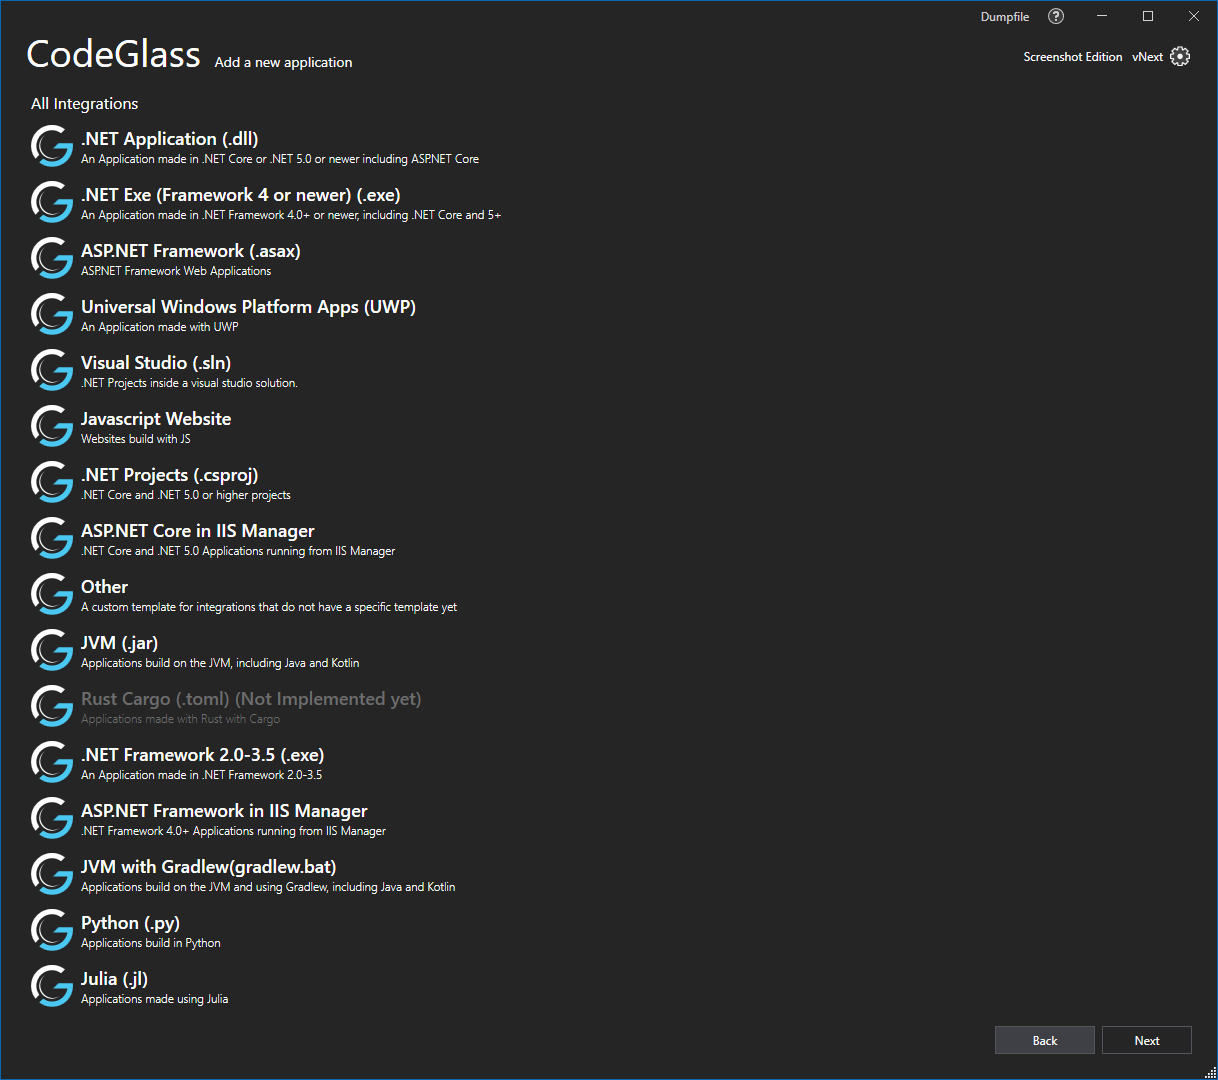
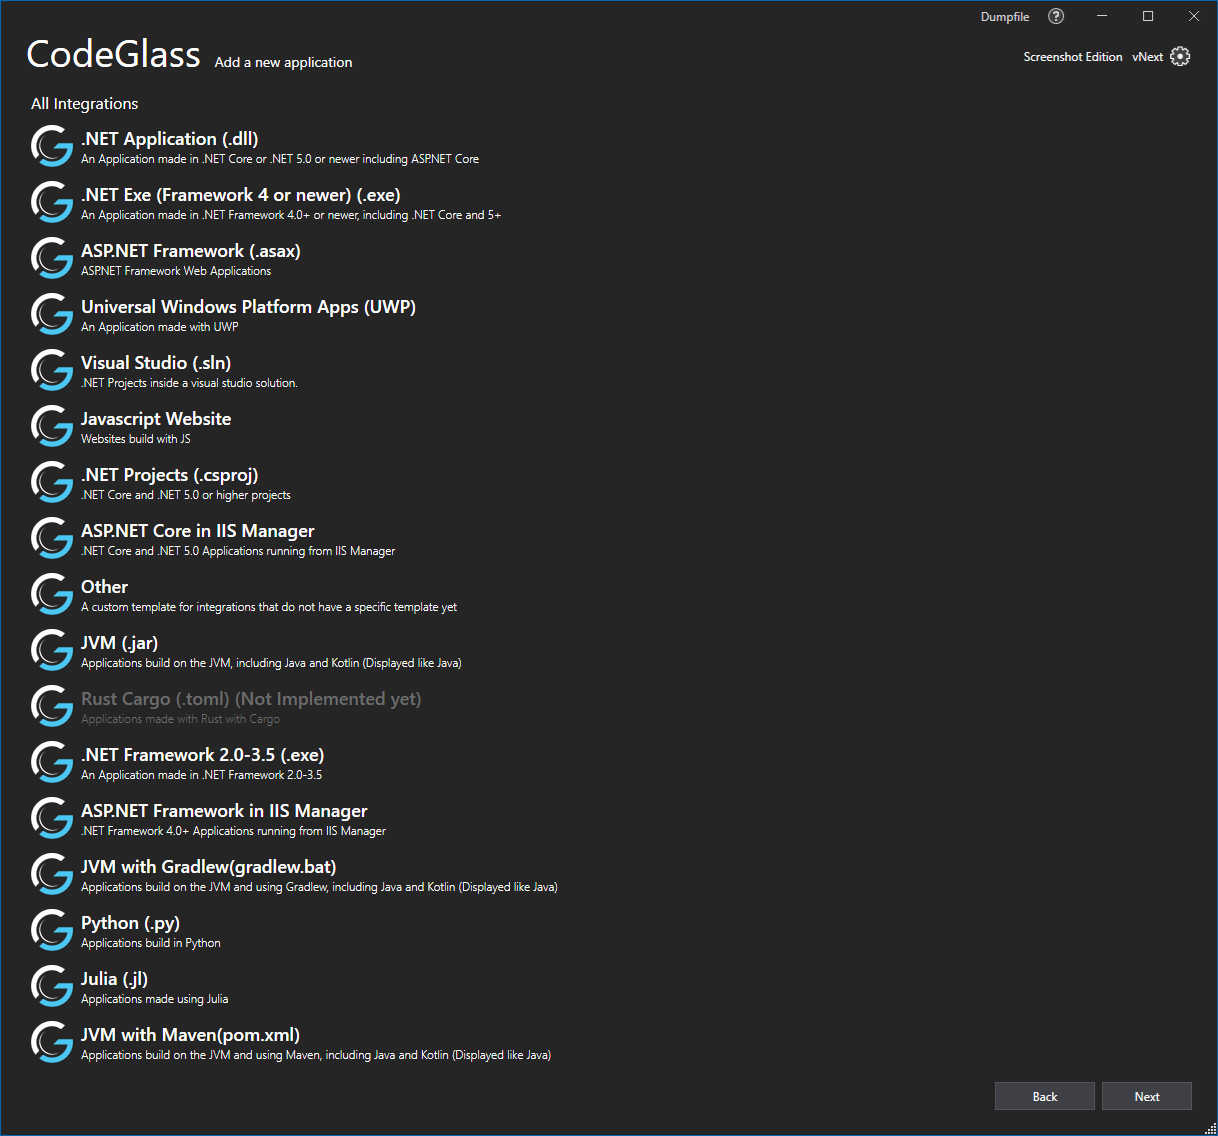
Added docs changes for Java

diff --git a/_docs/features/supportedruntimes.md b/_docs/features/supportedruntimes.md
@@ -162,7 +162,7 @@ It is currently in the early stages. Please check back when we release it to Pro
 - When launching the CodeGlass Browser through the CodeGlass client, you decide under which [application](../views/mainwindow/applicationInstance.md) (instance) the browser will put the profiled data. It is unaware if you leave the specified website and will keep putting the other website's data in the same application in CodeGlass. Keep this in mind when reading statistics and such.
 - The browser is not uninstalled when you uninstall CodeGlass, you have to do it manually (CodeGlassChromium in Apps and Features in Windows)
 
-## Limitations
+### Limitations
 - A new [Application Instance](../views/mainwindow/applicationInstance.md) is made for every separated javascript process that starts in the CodeGlass browser (Like every tab and every website)
 
 ## Julia
@@ -184,6 +184,24 @@ The Julia runtime allows you to profile your Julia applications. You can profile
 - CodeGlass Julia does not automatically get uninstalled when you uninstall CodeGlass. You can do this in your Windows Settings.
 
 ## Java
+{% include alert.html  type="warning" title="Only available for experimental" content="This feature is very experimental, because of this only available to the <a href=\"../Editions/Experimental\" target=\"_blanc\">Experimental Edition</a>." %}
+
+The Java runtime allows you to profile your Java applications. You can profile .jar files or get Start Instruction on how to run your code using Gradle or Maven.
+
+### Requirements
+- Java is installed on the system
+- (optional) Java path is set in the Client settings view
+
+### Known Issues
+- Inner classes are for now displayed as one class like OuterClass$InnerClass instead of sub classes.
+- Object names are displayed including namespaces instead of just the object names. E.g. java/lang/Object instead of Object
+- The generic type part \<T> is not yet profiled and displayed in CodeGlass. Instead, generic java/lang/Object will be displayed.
+- Memory profiling is not yet implemented for Java.
+
+### Limitations
+- It is not possible to profile Java specific/own namespaces.
+- It is not possible to profile some specific libraries and packages like org.xml and org.apache.
+- An error may occur if some not yet excluded libraries and packages that are like org.xml and org.apace are profiled. These packages can be added to the filter to bypass this issue. 
 
 # See Also:
  - [View - Add new Application](../views/mainwindow/newapplication.md)
